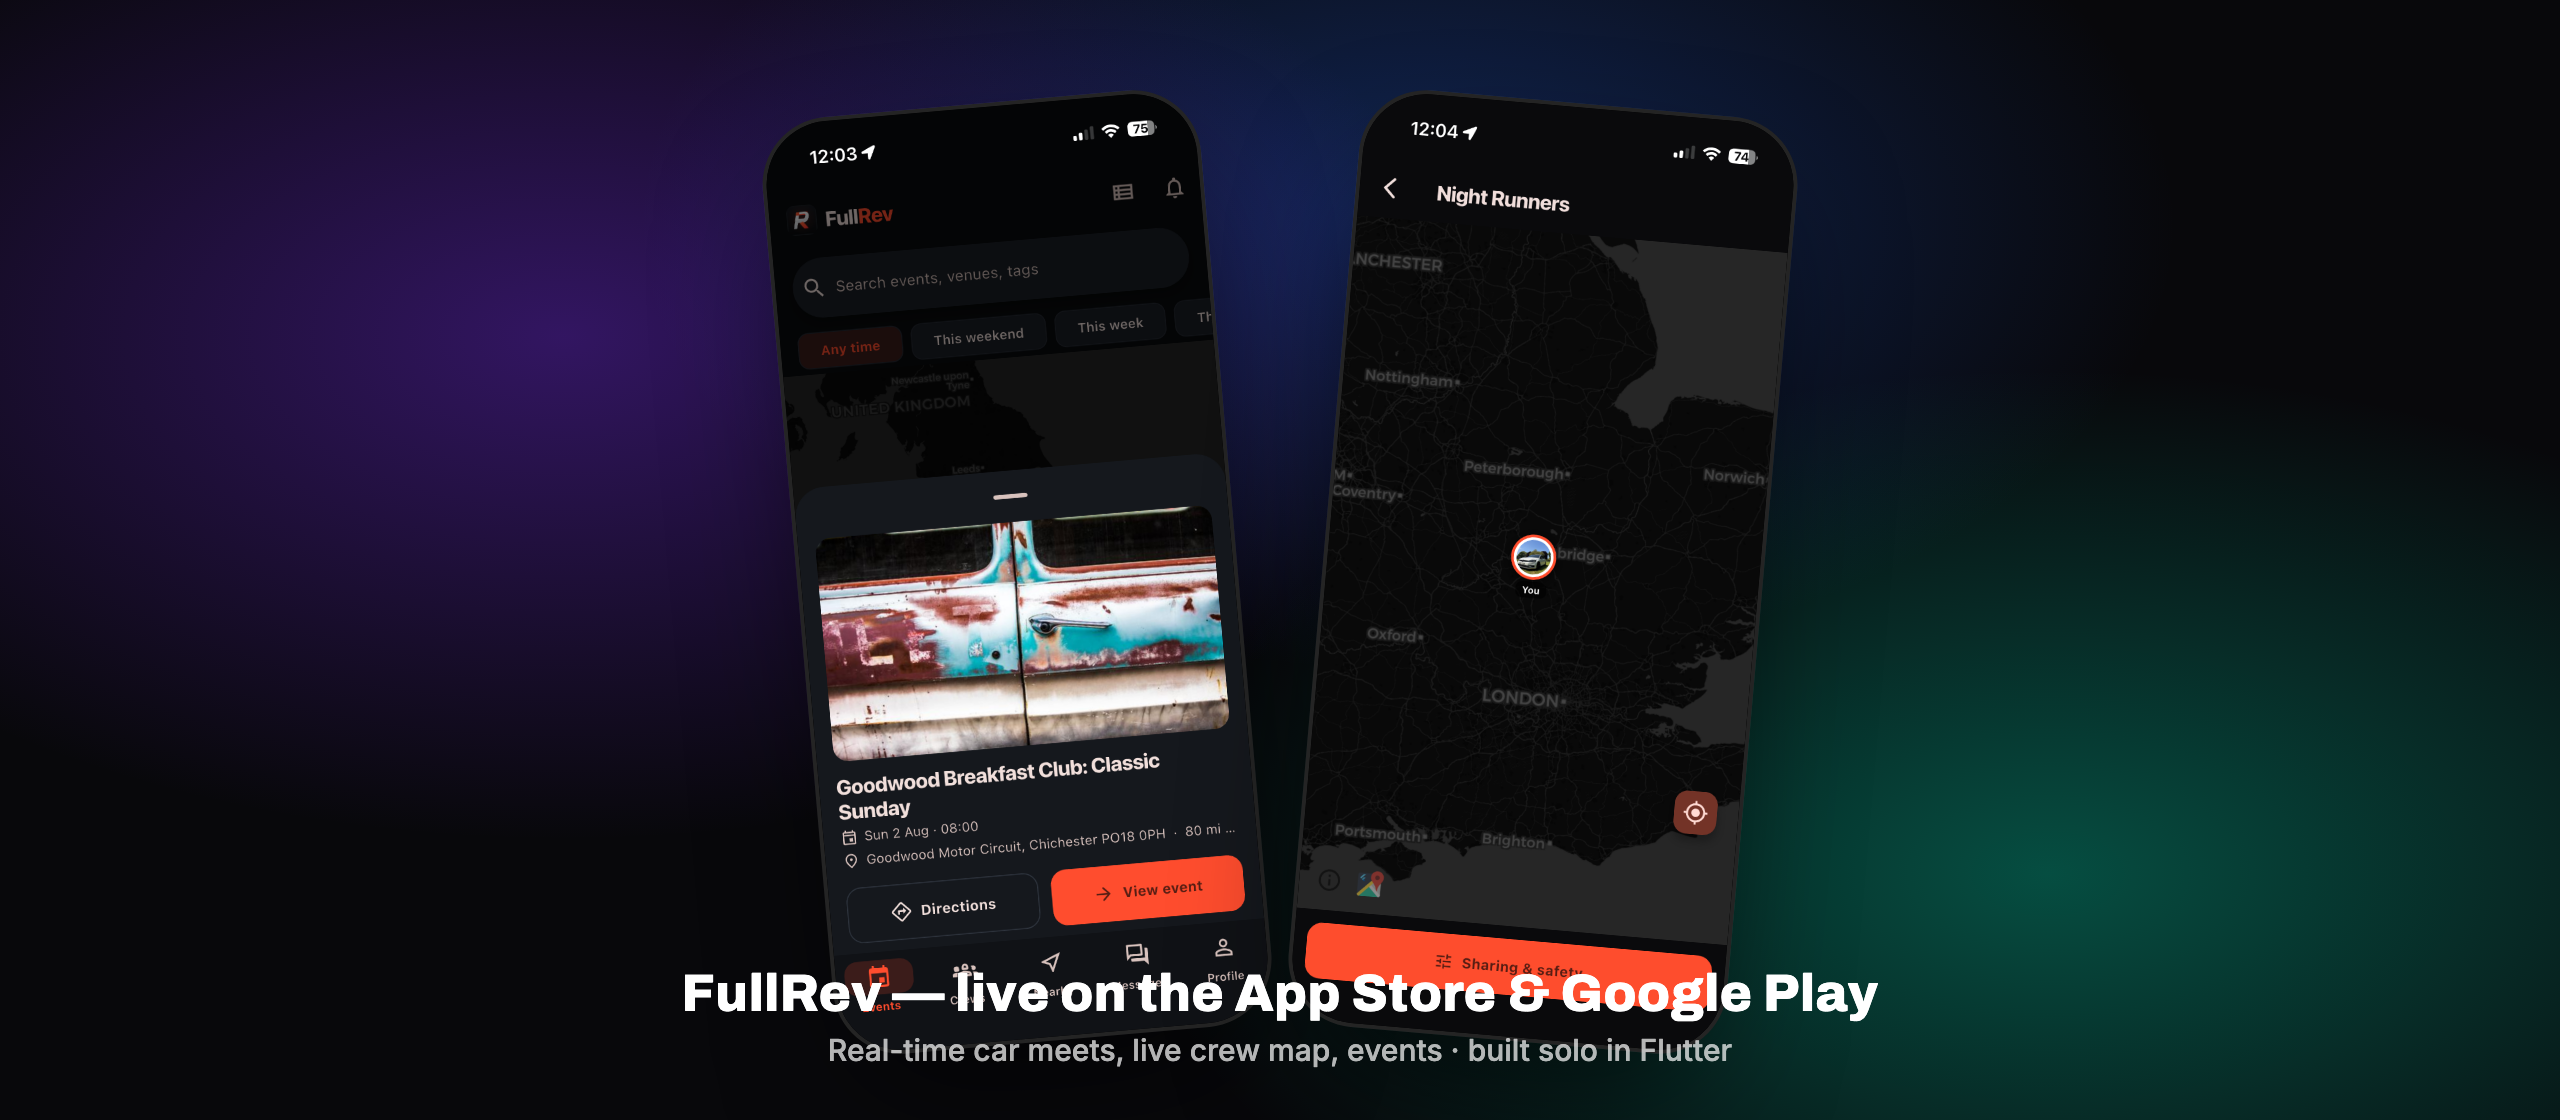
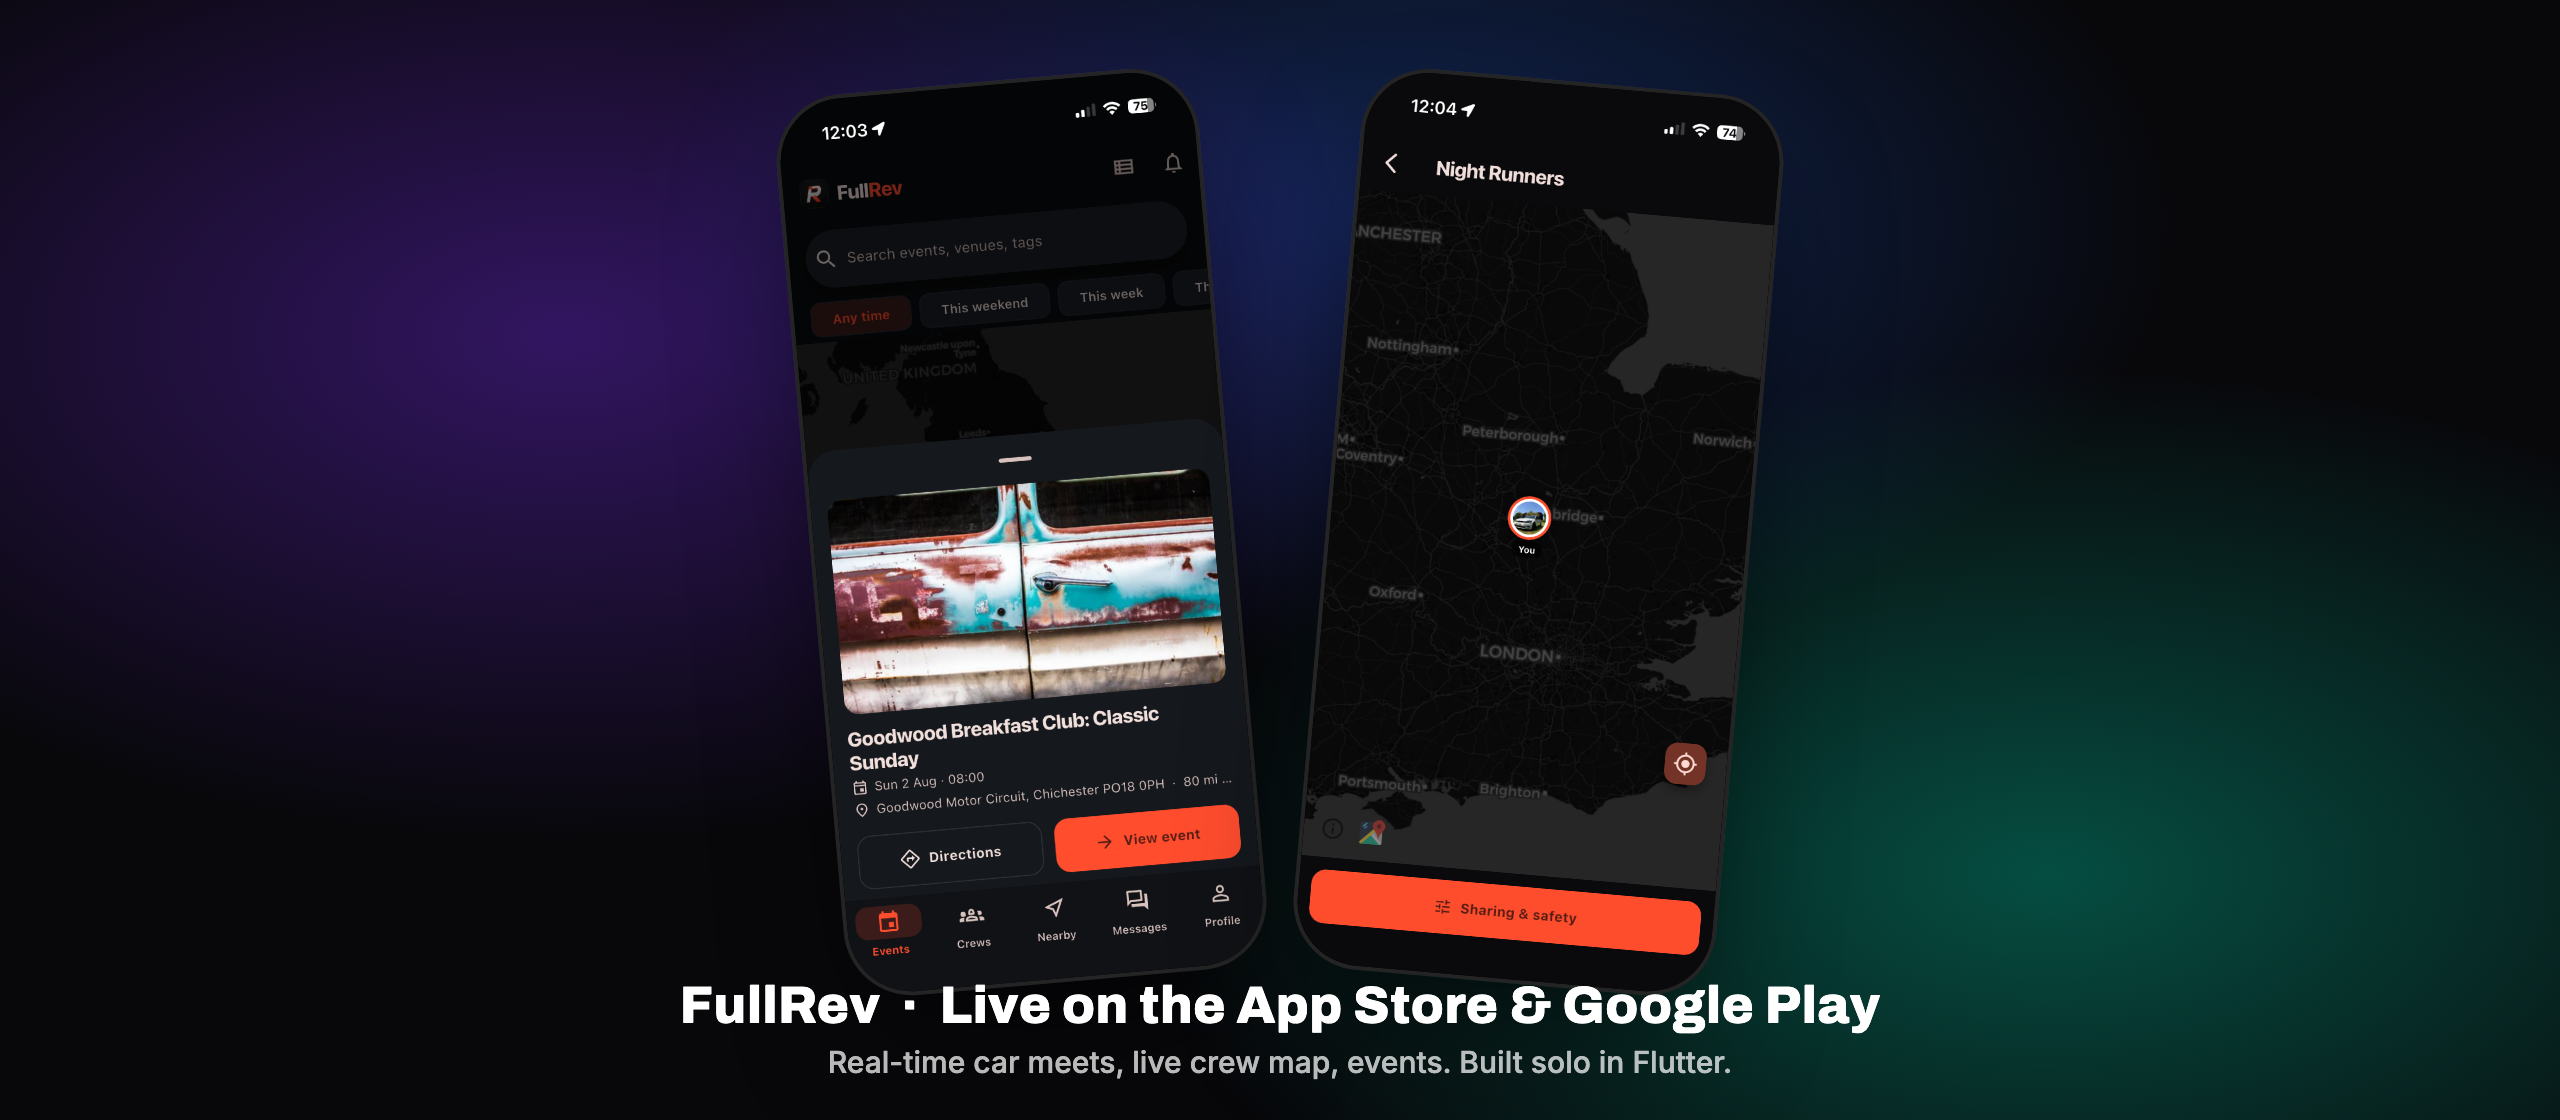
Strip em dashes, clean copy

diff --git a/README.md b/README.md
@@ -2,7 +2,7 @@
 <!-- Repo must be named exactly:  narcis-dev/narcis-dev  →  renders on your profile -->
 
 <a href="https://framelogic.co.uk">
-  <img width="100%" src="https://raw.githubusercontent.com/narcis-dev/narcis-dev/main/banner.png" alt="Frames — Founder @ FrameLogic · I build the tech behind great products & communities" />
+  <img width="100%" src="https://raw.githubusercontent.com/narcis-dev/narcis-dev/main/banner.png" alt="Frames, Founder @ FrameLogic · I build the tech behind great products & communities" />
 </a>
 
 <div align="center">
@@ -33,7 +33,7 @@ const frames = {
 };
 ```
 
-> **TL;DR** — I take products the whole way: empty repo → App Store, Figma idea → paying SaaS.
+> **TL;DR.** I take products the whole way: empty repo → App Store, Figma idea → paying SaaS.
 > Everything below is **actually live**. And if *you're* building something, I probably build the parts you need.
 
 <div align="center">
@@ -63,7 +63,7 @@ Real-time car-meet & convoy app for the automotive community.
 <td width="50%" valign="top">
 
 #### 🔧 [Autera](https://getautera.com)
-Garage-management SaaS — jobs, invoicing, VHC, accounting integrations, mobile app.
+Garage-management SaaS, jobs, invoicing, VHC, accounting integrations, mobile app.
 **Live, paying customers.**
 <br/><br/>
 `Next.js` `TypeScript` `PostgreSQL` `Stripe` `Xero/QBO`
@@ -76,7 +76,7 @@ Garage-management SaaS — jobs, invoicing, VHC, accounting integrations, mobile
 <td width="50%" valign="top">
 
 #### 📸 [MediaByFrame](https://mediabyframe.com)
-My creative agency — automotive & lifestyle photography, content & marketing.
+My creative agency, automotive & lifestyle photography, content & marketing.
 Site, booking flow & galleries all self-built.
 <br/><br/>
 `PHP` `SEO` `Cloudflare R2`
@@ -85,9 +85,9 @@ Site, booking flow & galleries all self-built.
 <td width="50%" valign="top">
 
 #### 🧰 More
-[`DeviceScanner`](https://github.com/narcis-dev/device-scanner) — Mac + iOS scanning tool ·
-`keel` — algo-trading engine ·
-`Migoland` — browser MMO revival ·
+[`DeviceScanner`](https://github.com/narcis-dev/device-scanner), Mac + iOS scanning tool ·
+`keel`, algo-trading engine ·
+`Migoland`, browser MMO revival ·
 a fleet of Next.js / PHP sites on my own VPS.
 
 </td>
@@ -98,19 +98,19 @@ a fleet of Next.js / PHP sites on my own VPS.
 
 ### 🎬 See it live
 
-<a href="https://fullrev.app"><img width="100%" src="https://raw.githubusercontent.com/narcis-dev/narcis-dev/main/showcase.png" alt="FullRev — live on the App Store & Google Play" /></a>
+<a href="https://fullrev.app"><img width="100%" src="https://raw.githubusercontent.com/narcis-dev/narcis-dev/main/showcase.png" alt="FullRev, live on the App Store & Google Play" /></a>
 
 <img src="https://raw.githubusercontent.com/andreasbm/readme/master/assets/lines/rainbow.png" width="100%" alt="─" />
 
 ### 💼 What I can build for you
 
 Running a **Minecraft server / gaming network**, a **Discord community**, or a **startup**?
-This is the exact stack those need — and I ship it end to end:
+This is the exact stack those need, and I ship it end to end:
 
 <table>
 <tr>
 <td width="33%" align="center">🌐<br/><b>Websites & Landing Pages</b><br/><sub>fast, custom, conversion-built</sub></td>
-<td width="33%" align="center">🛒<br/><b>Web Stores</b><br/><sub>ranks, cosmetics, subscriptions — Stripe-powered</sub></td>
+<td width="33%" align="center">🛒<br/><b>Web Stores</b><br/><sub>ranks, cosmetics, subscriptions, Stripe-powered</sub></td>
 <td width="33%" align="center">🤖<br/><b>Discord Bots</b><br/><sub>tickets, verification, automation</sub></td>
 </tr>
 <tr>
@@ -120,7 +120,7 @@ This is the exact stack those need — and I ship it end to end:
 </tr>
 </table>
 
-<div align="center"><sub>Full-stack, self-hosted on my own infra — no per-seat SaaS tax, no vendor lock-in.</sub></div>
+<div align="center"><sub>Full-stack, self-hosted on my own infra. No per-seat SaaS tax, no vendor lock-in.</sub></div>
 
 <img src="https://raw.githubusercontent.com/andreasbm/readme/master/assets/lines/rainbow.png" width="100%" alt="─" />
 
@@ -148,7 +148,7 @@ This is the exact stack those need — and I ship it end to end:
 
 <div align="center">
 
-**Server, community, startup, or app — if you can describe it, I can ship it.**
+**Server, community, startup, or app. If you can describe it, I can ship it.**
 <br/>My DMs are open and my turnaround is fast.
 
 <br/>
